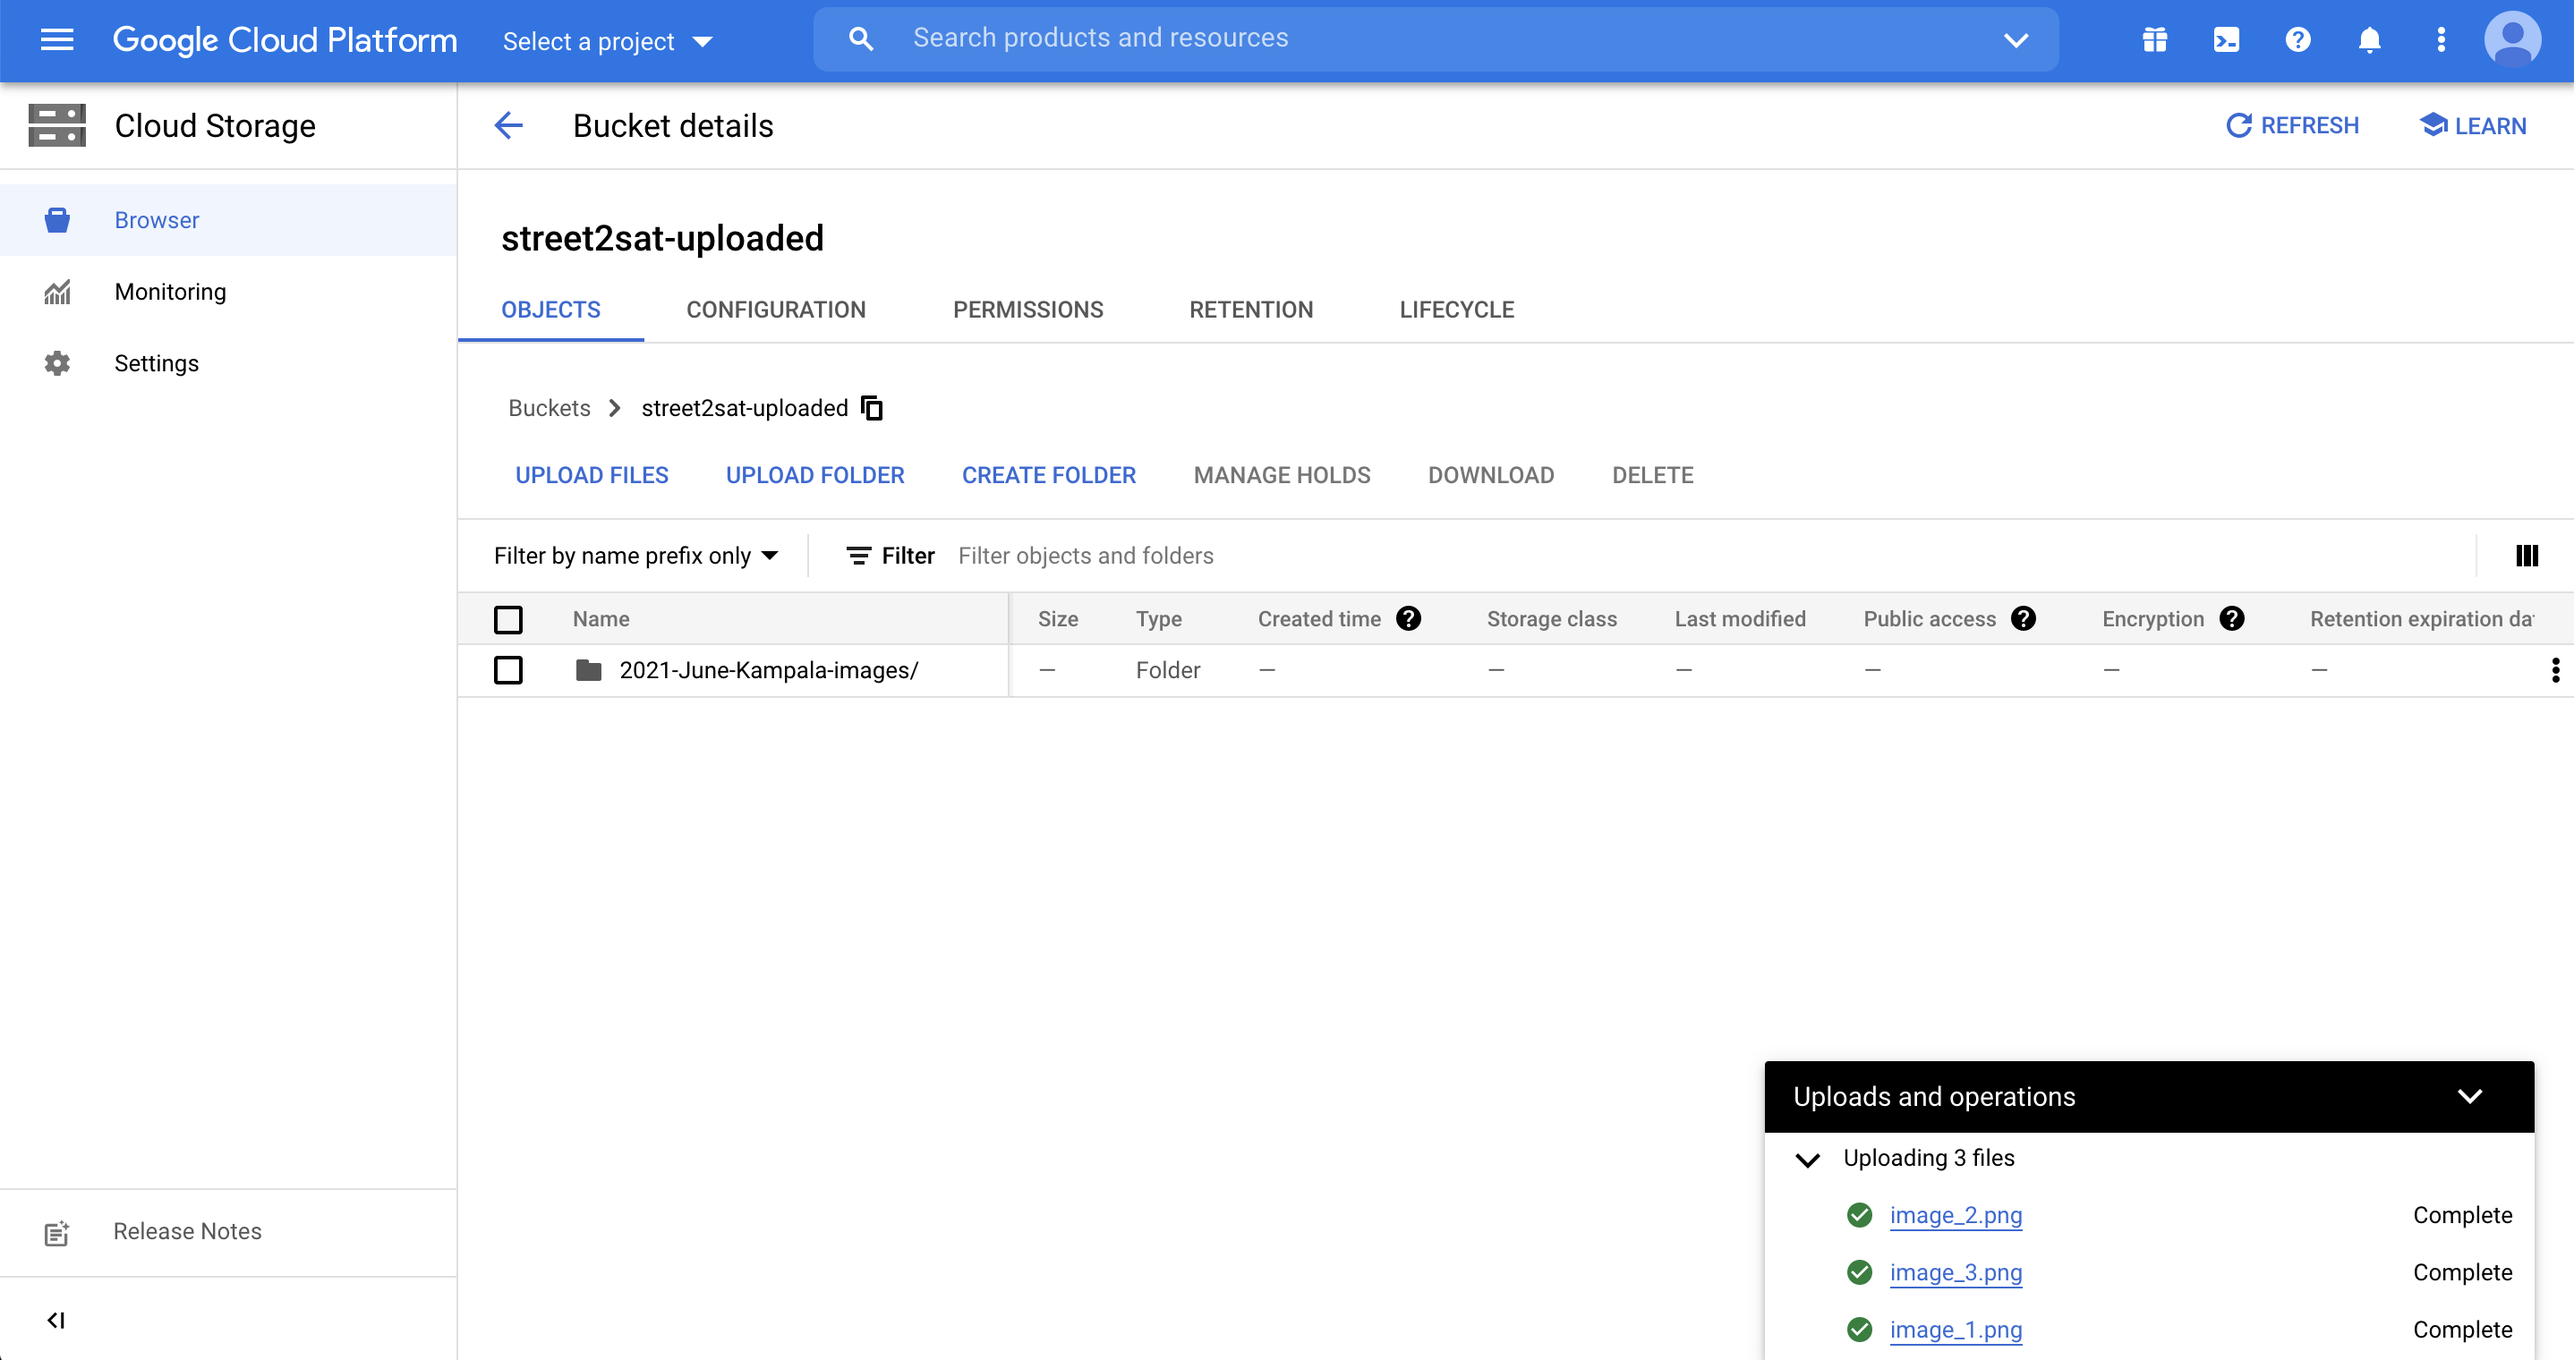
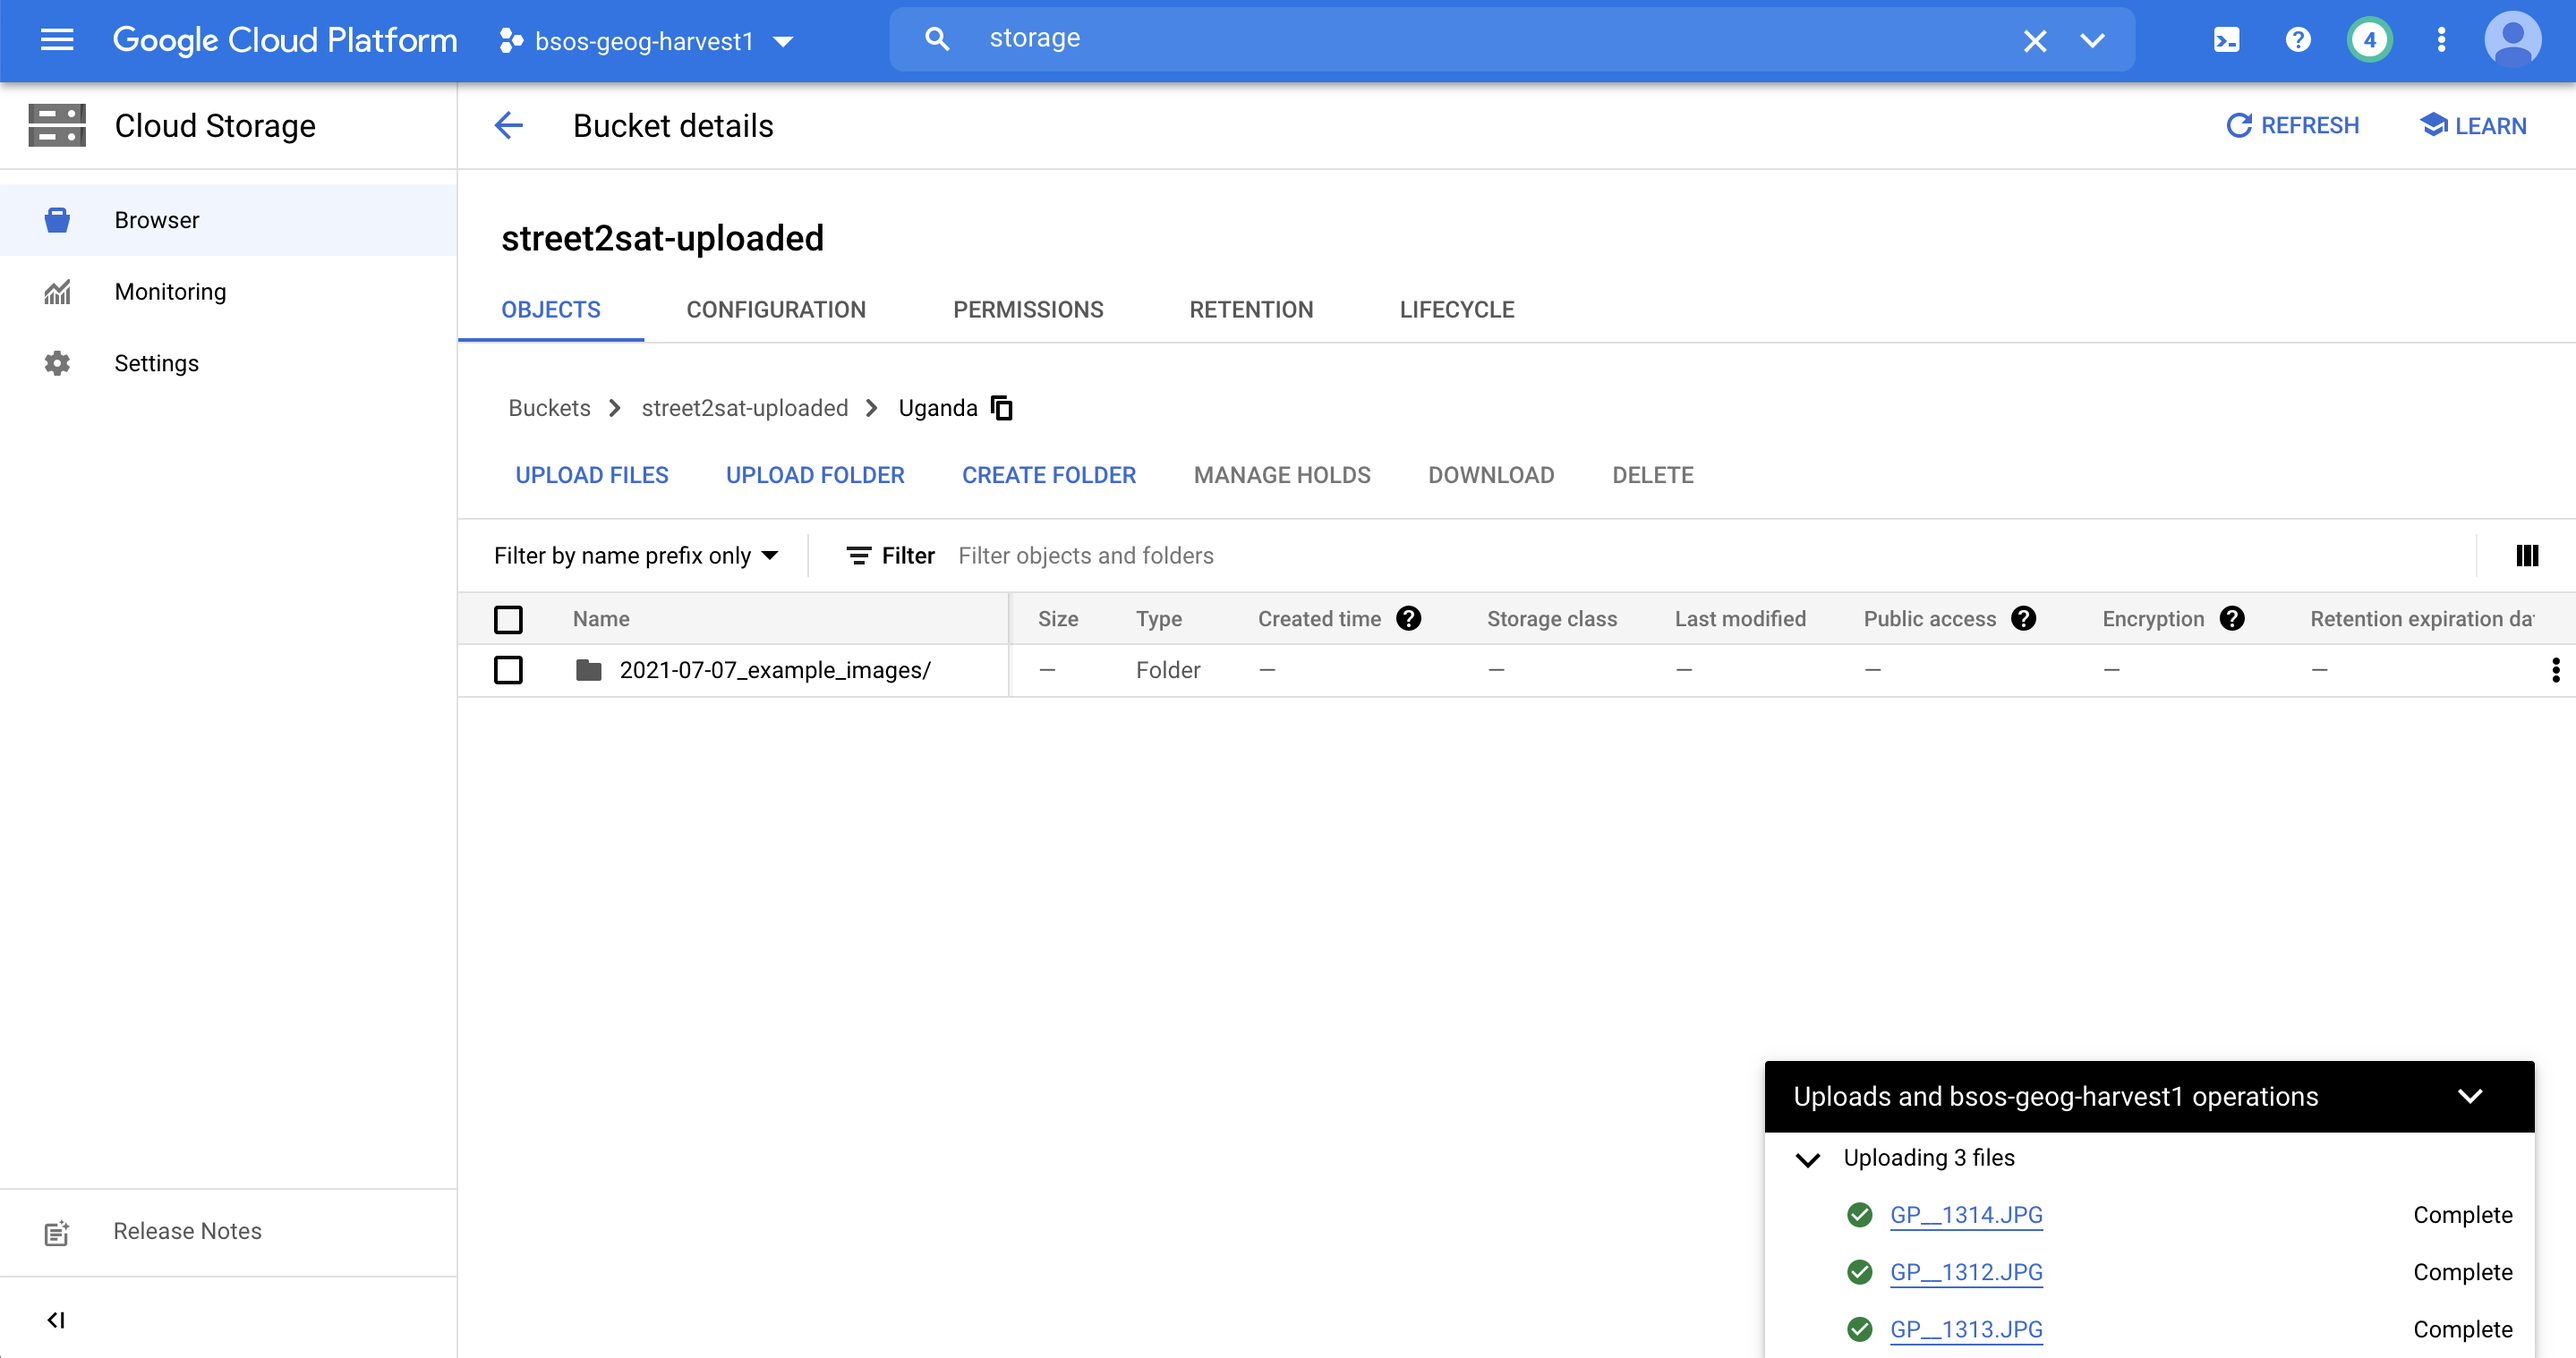
Update instructions

diff --git a/gcp/instructions-for-uploading.md b/gcp/instructions-for-uploading.md
@@ -11,14 +11,20 @@
     <img src="assets/street2sat-gcloud.png" width=80%/>
 
 ## Uploading images
-1. You can now upload a folder of images from your computer by clicking **Upload folder**
+The following format `<COUNTRY>/<YYYY>-<MM>-<DD>-<folder-name>/*.jpg` will be used for keeping the bucket organized.
+1. Create a folder for the country where the images were taken (if it does not already exist).
+    <img src="assets/street2sat-upload-country.png" width=80%/>
+
+2. Navigate to the `<COUNTRY>` and select **Upload folder**.
 
     <img src="assets/street2sat-upload.png" width=80%/>
 
-2. Selecting the folder with images
-    <img src="assets/street2sat-select-images.png" width=80%/>
+3. Selecting the folder with images:
+    - Ensure the folder name contains the date at the beginning in the format YYYY-MM-DD
+    - Ensure the folder name does not contain spaces
+    <img src="assets/street2sat-upload-images.png" width=80%/>
 
-3. Verifying that the images were uploaded
+4. Verifying that the images were uploaded
 
     <img src="assets/street2sat-upload-done.png" width=80%/>
 
